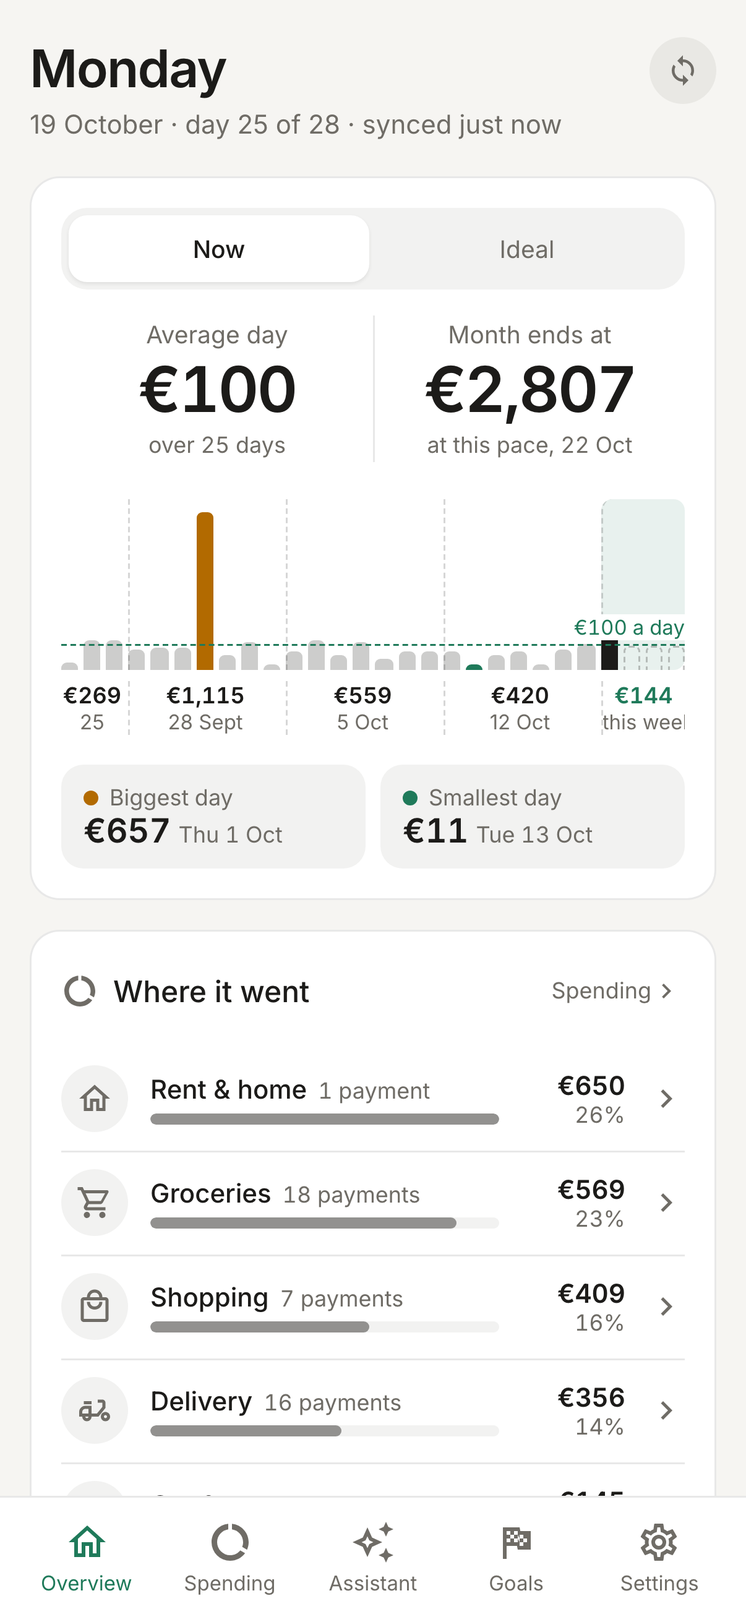
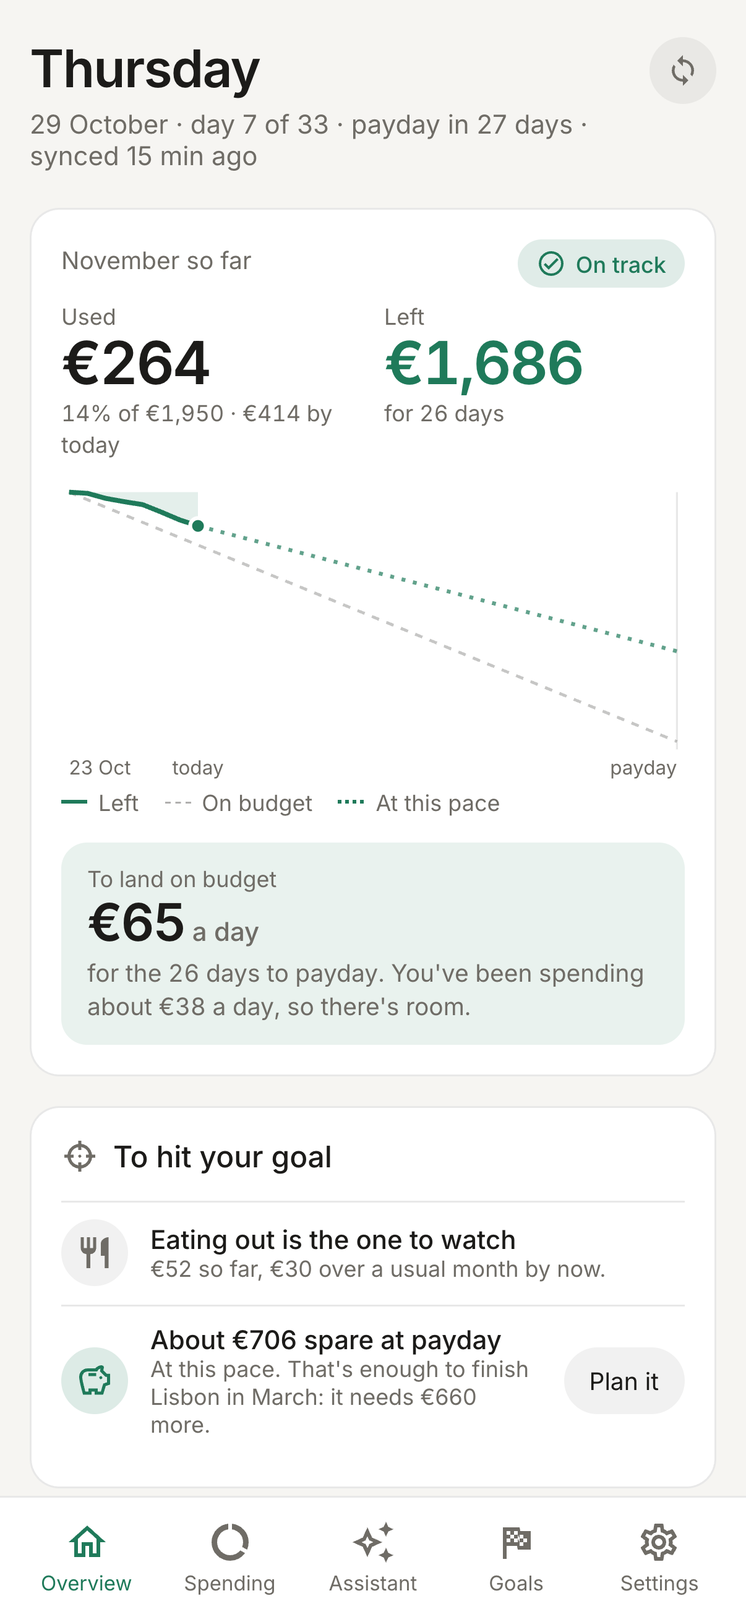
The docs describe the new Overview, the payment sheet, fixed costs and what the assistant remembers
New screenshots from the demo: Overview on track, behind and over budget; Spending's highlights, Fixed tab and a
payment's sheet. Planning explains the per-day figure and what to do when behind or over, and the month that waits
for pay; Spending, commitments and the assistant pages cover linking payments to fixed costs and the memory.

diff --git a/docs/index.html b/docs/index.html
@@ -261,7 +261,7 @@ a.chip:hover { background: var(--tg-chip-hover); }
   </div>
 
   <div class="shots">
-    <figure class="shot"><img class="light" src="screens/overview-light.png" alt="The Overview screen: this pay month's spending and today's numbers" /><img class="dark" src="screens/overview-dark.png" alt="" /><figcaption>Overview</figcaption></figure>
+    <figure class="shot"><img class="light" src="screens/overview-light.png" alt="The Overview screen: this month's money used and left, a runway to payday, and what a day can be" /><img class="dark" src="screens/overview-dark.png" alt="" /><figcaption>Overview</figcaption></figure>
     <figure class="shot"><img class="light" src="screens/spending-light.png" alt="The Spending screen: spending by category against usual" /><img class="dark" src="screens/spending-dark.png" alt="" /><figcaption>Spending</figcaption></figure>
     <figure class="shot"><img class="light" src="screens/goals-light.png" alt="The Goals screen: goals, weekly habits and the wishlist" /><img class="dark" src="screens/goals-dark.png" alt="" /><figcaption>Goals</figcaption></figure>
   </div>
@@ -279,7 +279,7 @@ a.chip:hover { background: var(--tg-chip-hover); }
     <div class="card-h"><h2><i data-i="format-list-bulleted"></i>What you can do</h2></div>
     <a class="part" href="#banks"><span class="ricon accent"><i data-i="bank-outline"></i></span><span class="t"><b>Connect every bank</b><span>Piraeus, National Bank, Eurobank, Alpha, Revolut and more, through Enable Banking.</span></span><i data-i="chevron-right"></i></a>
     <a class="part" href="#spending"><span class="ricon accent"><i data-i="chart-donut"></i></span><span class="t"><b>See where it went</b><span>Any day, week, pay month or year, against what's usual for you.</span></span><i data-i="chevron-right"></i></a>
-    <a class="part" href="#planning"><span class="ricon accent"><i data-i="calendar-month-outline"></i></span><span class="t"><b>Plan around payday</b><span>Budgets per category and a pace that tells you early.</span></span><i data-i="chevron-right"></i></a>
+    <a class="part" href="#planning"><span class="ricon accent"><i data-i="calendar-month-outline"></i></span><span class="t"><b>Plan around payday</b><span>What's left, what a day can be until payday, and what to do if it goes wrong.</span></span><i data-i="chevron-right"></i></a>
     <a class="part" href="#goals"><span class="ricon accent"><i data-i="target"></i></span><span class="t"><b>Save on purpose</b><span>Goals, fixed costs, weekly habits and a 48-hour wishlist.</span></span><i data-i="chevron-right"></i></a>
     <a class="part" href="#alerts"><span class="ricon accent"><i data-i="bell-outline"></i></span><span class="t"><b>Hear about it in time</b><span>A nudge on your phone when a category runs ahead.</span></span><i data-i="chevron-right"></i></a>
     <a class="part" href="#assistant"><span class="ricon ai"><i data-i="creation-outline"></i></span><span class="t"><b>Ask about your money</b><span>An optional Claude assistant that reads your spending.</span></span><i data-i="chevron-right"></i></a>
@@ -392,6 +392,9 @@ cp .env.example .env && echo DEMO=1 >> .env</code></span></li>
       past and future. ebby re-sorts your history right away, so last month's totals change too.</p>
     <p>The <b>Sorter</b>, in the Assistant tab, collects payees left in Other over the last 90 days, biggest first. You
       can clear them in a few taps. With the assistant switched on, each one comes with a guess and the reason for it.</p>
+    <p>Some payments only you can explain, like a transfer that's your half of the rent, or a shop where you buy presents.
+      Tell the assistant once, from the payment's sheet, and it uses that the next time it guesses. See
+      <a href="#assistant">what it remembers</a>.</p>
   </div>
 </section>
 
@@ -406,6 +409,22 @@ cp .env.example .env && echo DEMO=1 >> .env</code></span></li>
       same number of days of earlier periods, so the middle of the month never looks falsely calm.</p>
     <p>Up to three highlights point out what stands out. That might be a category that jumped, one big payment, an
       expensive weekday, or a run of days with no spending.</p>
+  </div>
+
+  <div class="shots">
+    <figure class="shot"><img class="light" src="screens/spending-light.png" alt="Spending for a pay month, with highlights you can open" /><img class="dark" src="screens/spending-dark.png" alt="" /><figcaption>Highlights</figcaption></figure>
+    <figure class="shot"><img class="light" src="screens/spending-fixed-light.png" alt="The Fixed tab: fixed costs paid or still due, then subscriptions" /><img class="dark" src="screens/spending-fixed-dark.png" alt="" /><figcaption>Fixed</figcaption></figure>
+    <figure class="shot"><img class="light" src="screens/payment-light.png" alt="A payment's sheet: the day paid, the account, its category and fixed cost" /><img class="dark" src="screens/payment-dark.png" alt="" /><figcaption>A payment</figcaption></figure>
+  </div>
+
+  <div class="card prose">
+    <div class="card-h"><h2><i data-i="gesture-tap"></i>Every payment, one tap away</h2></div>
+    <p>Whatever you start from, you can go all the way down: period, category, payee, payment. Highlights open what they
+      talk about, and every payment row opens the same sheet. The sheet shows the day you paid, the day the bank booked
+      it when that's different, and the account. It's also where you change the payment's category, link it to a fixed
+      cost, or tell the assistant something about it.</p>
+    <p>The <b>Fixed</b> tab lists your fixed costs for the period, paid or still due, then the subscriptions that aren't one
+      yet. Payments to fixed costs carry a <em>Fixed</em> tag in every list and are left out of the day's spending.</p>
   </div>
 
   <div class="card prose">
@@ -432,6 +451,9 @@ cp .env.example .env && echo DEMO=1 >> .env</code></span></li>
     <p>Set your payday to the 1st for calendar months, to any day from the 2nd to the 28th, or to the last working day.
       If payday falls on a weekend, the month starts on the Friday before, because that's when the money usually lands.
       After your first sync, ebby suggests a payday from your deposits.</p>
+    <p>Pay doesn't always land on time. Under Settings → Payday you can start a new month <b>when your pay arrives</b>
+      instead. While it's late, the month before stays open, so what's left doesn't reset to nothing. It waits a few days
+      at most (you choose how many), and pay that comes early starts the month early.</p>
   </div>
 
   <div class="card prose">
@@ -442,11 +464,29 @@ cp .env.example .env && echo DEMO=1 >> .env</code></span></li>
       months it arrives.</p>
   </div>
 
+  <div class="shots">
+    <figure class="shot"><img class="light" src="screens/overview-light.png" alt="Overview on track: money left, and a day's spending to land on budget" /><img class="dark" src="screens/overview-dark.png" alt="" /><figcaption>On track</figcaption></figure>
+    <figure class="shot"><img class="light" src="screens/overview-behind-light.png" alt="Overview behind: a smaller day's spending, and what to cut" /><img class="dark" src="screens/overview-behind-dark.png" alt="" /><figcaption>Behind</figcaption></figure>
+    <figure class="shot"><img class="light" src="screens/overview-over-light.png" alt="Overview over budget: ways to cover it, from next month or a goal" /><img class="dark" src="screens/overview-over-dark.png" alt="" /><figcaption>Over budget</figcaption></figure>
+  </div>
+
   <div class="card prose">
     <div class="card-h"><h2><i data-i="trending-up"></i>Staying on pace</h2></div>
-    <p>The <b>Today</b> card shows what you've spent today, your daily average, and where the month is heading. Each
-      category gets a pace: <em>fine</em>, <em>ahead</em> or <em>over</em>, with a plain-words line about the habit behind
-      it. The year view puts every month side by side.</p>
+    <p><b>Overview</b> starts with this month so far: how much of the budget is used, what's left, and a runway from payday
+      to payday. The runway draws the money left each day against where it should be, and carries on at your pace so far,
+      so you see early where the month will end. Fixed costs aren't part of it: they're set aside first, and listed below
+      as paid or still to come.</p>
+    <p>Under the runway is the number to live by: what you can spend a day until payday and still land on budget. What
+      comes next depends on how the month is going:</p>
+    <ul>
+      <li><b>On track:</b> the category to keep an eye on, and what's likely to be spare on payday for your goal.</li>
+      <li><b>Behind:</b> the categories running furthest over their usual, with what one payment fewer saves, or taking the
+        difference from a goal.</li>
+      <li><b>Over budget:</b> choose how to cover it, by starting next month with that much less or by taking it from a
+        goal. Then it's essentials only until payday.</li>
+    </ul>
+    <p>Each category also gets a pace in Spending: <em>fine</em>, <em>ahead</em> or <em>over</em>, with a plain-words line
+      about the habit behind it. The year view puts every month side by side.</p>
   </div>
 </section>
 
@@ -465,6 +505,9 @@ cp .env.example .env && echo DEMO=1 >> .env</code></span></li>
     <p>Commitments are costs you've promised in advance, kept apart from everyday spending. A commitment can be a monthly
       limit on certain payees, or a cost that comes every 3, 6 or 12 months. For those, ebby sets aside a monthly share,
       so the insurance bill doesn't wreck the month it arrives in.</p>
+    <p>Payments to a fixed cost are found by its payees. For one that can't be told by its payee, like a transfer to your
+      landlord or a card payment with no shop name, open the payment and pick the fixed cost it belongs to; it stays linked.
+      Overview and the Fixed tab show each cost as paid, with the day, or still to come.</p>
   </div>
 
   <div class="card prose">
@@ -515,6 +558,15 @@ cp .env.example .env && echo DEMO=1 >> .env</code></span></li>
     <div class="part"><span class="ricon ai"><i data-i="shape-outline"></i></span><span class="t"><b>Sorter guesses</b><span>One guess per unknown payee, with the reason behind it.</span></span></div>
     <div class="part"><span class="ricon ai"><i data-i="chart-donut"></i></span><span class="t"><b>Explain</b><span>On the Spending tab, any day, week, month or year in a few sentences.</span></span></div>
     <div class="part"><span class="ricon ai"><i data-i="bell-outline"></i></span><span class="t"><b>The weekly read</b><span>Arrives on Monday morning. You can switch it off in Settings.</span></span></div>
+  </div>
+
+  <div class="card prose">
+    <div class="card-h"><h2><i data-i="history"></i>What it remembers</h2></div>
+    <p>Tell the assistant something once and it keeps it, a line at a time, in your words: "transfers to Maria are my half
+      of the rent". You can add a line from a payment's sheet or in Settings → What it remembers. In chat it offers to
+      remember things itself, but saves nothing until you tap <b>Do it</b>.</p>
+    <p>It reads these lines when it guesses a category and when you chat. A guess that relied on one says so. You can
+      change or forget any line in Settings.</p>
   </div>
 
   <div class="card prose">
@@ -777,7 +829,7 @@ cp .env.example .env && echo DEMO=1 >> .env</code></span></li>
 <script src="https://cdn.jsdelivr.net/npm/mermaid@10.9.1/dist/mermaid.min.js"></script>
 <script>
 // The app's icons (@mdi/js paths), drawn the way web/src/components/ui.tsx's <Icon> draws them.
-const ICONS = {"account-group-outline": "M12,5A3.5,3.5 0 0,0 8.5,8.5A3.5,3.5 0 0,0 12,12A3.5,3.5 0 0,0 15.5,8.5A3.5,3.5 0 0,0 12,5M12,7A1.5,1.5 0 0,1 13.5,8.5A1.5,1.5 0 0,1 12,10A1.5,1.5 0 0,1 10.5,8.5A1.5,1.5 0 0,1 12,7M5.5,8A2.5,2.5 0 0,0 3,10.5C3,11.44 3.53,12.25 4.29,12.68C4.65,12.88 5.06,13 5.5,13C5.94,13 6.35,12.88 6.71,12.68C7.08,12.47 7.39,12.17 7.62,11.81C6.89,10.86 6.5,9.7 6.5,8.5C6.5,8.41 6.5,8.31 6.5,8.22C6.2,8.08 5.86,8 5.5,8M18.5,8C18.14,8 17.8,8.08 17.5,8.22C17.5,8.31 17.5,8.41 17.5,8.5C17.5,9.7 17.11,10.86 16.38,11.81C16.5,12 16.63,12.15 16.78,12.3C16.94,12.45 17.1,12.58 17.29,12.68C17.65,12.88 18.06,13 18.5,13C18.94,13 19.35,12.88 19.71,12.68C20.47,12.25 21,11.44 21,10.5A2.5,2.5 0 0,0 18.5,8M12,14C9.66,14 5,15.17 5,17.5V19H19V17.5C19,15.17 14.34,14 12,14M4.71,14.55C2.78,14.78 0,15.76 0,17.5V19H3V17.07C3,16.06 3.69,15.22 4.71,14.55M19.29,14.55C20.31,15.22 21,16.06 21,17.07V19H24V17.5C24,15.76 21.22,14.78 19.29,14.55M12,16C13.53,16 15.24,16.5 16.23,17H7.77C8.76,16.5 10.47,16 12,16Z", "account-outline": "M12,4A4,4 0 0,1 16,8A4,4 0 0,1 12,12A4,4 0 0,1 8,8A4,4 0 0,1 12,4M12,6A2,2 0 0,0 10,8A2,2 0 0,0 12,10A2,2 0 0,0 14,8A2,2 0 0,0 12,6M12,13C14.67,13 20,14.33 20,17V20H4V17C4,14.33 9.33,13 12,13M12,14.9C9.03,14.9 5.9,16.36 5.9,17V18.1H18.1V17C18.1,16.36 14.97,14.9 12,14.9Z", "arrow-decision": "M11,5H8L12,1L16,5H13V9.43C12.25,9.89 11.58,10.46 11,11.12V5M22,11L18,7V10C14.39,9.85 11.31,12.57 11,16.17C9.44,16.72 8.62,18.44 9.17,20C9.72,21.56 11.44,22.38 13,21.83C14.56,21.27 15.38,19.56 14.83,18C14.53,17.14 13.85,16.47 13,16.17C13.47,12.17 17.47,11.97 17.95,11.97V14.97L22,11M10.63,11.59C9.3,10.57 7.67,10 6,10V7L2,11L6,15V12C7.34,12.03 8.63,12.5 9.64,13.4C9.89,12.76 10.22,12.15 10.63,11.59Z", "arrow-right": "M4,11V13H16L10.5,18.5L11.92,19.92L19.84,12L11.92,4.08L10.5,5.5L16,11H4Z", "bank-outline": "M6.5,10H4.5V17H6.5V10M12.5,10H10.5V17H12.5V10M21,19H2V21H21V19M18.5,10H16.5V17H18.5V10M11.5,3.26L16.71,6H6.29L11.5,3.26M11.5,1L2,6V8H21V6L11.5,1Z", "bell-outline": "M10 21H14C14 22.1 13.1 23 12 23S10 22.1 10 21M21 19V20H3V19L5 17V11C5 7.9 7 5.2 10 4.3V4C10 2.9 10.9 2 12 2S14 2.9 14 4V4.3C17 5.2 19 7.9 19 11V17L21 19M17 11C17 8.2 14.8 6 12 6S7 8.2 7 11V18H17V11Z", "brightness-auto": "M14.3,16L13.6,14H10.4L9.7,16H7.8L11,7H13L16.2,16H14.3M20,8.69V4H15.31L12,0.69L8.69,4H4V8.69L0.69,12L4,15.31V20H8.69L12,23.31L15.31,20H20V15.31L23.31,12L20,8.69M10.85,12.65H13.15L12,9L10.85,12.65Z", "calculator-variant-outline": "M19 3H5C3.9 3 3 3.9 3 5V19C3 20.1 3.9 21 5 21H19C20.1 21 21 20.1 21 19V5C21 3.9 20.1 3 19 3M19 19H5V5H19V19M6.2 7.7H11.2V9.2H6.2V7.7M13 15.8H18V17.3H13V15.8M13 13.2H18V14.7H13V13.2M8 18H9.5V16H11.5V14.5H9.5V12.5H8V14.5H6V16H8V18M14.1 10.9L15.5 9.5L16.9 10.9L18 9.9L16.6 8.5L18 7.1L16.9 6L15.5 7.4L14.1 6L13 7.1L14.4 8.5L13 9.9L14.1 10.9Z", "calendar-month-outline": "M7 11H9V13H7V11M21 5V19C21 20.11 20.11 21 19 21H5C3.89 21 3 20.1 3 19V5C3 3.9 3.9 3 5 3H6V1H8V3H16V1H18V3H19C20.11 3 21 3.9 21 5M5 7H19V5H5V7M19 19V9H5V19H19M15 13V11H17V13H15M11 13V11H13V13H11M7 15H9V17H7V15M15 17V15H17V17H15M11 17V15H13V17H11Z", "cash": "M3,6H21V18H3V6M12,9A3,3 0 0,1 15,12A3,3 0 0,1 12,15A3,3 0 0,1 9,12A3,3 0 0,1 12,9M7,8A2,2 0 0,1 5,10V14A2,2 0 0,1 7,16H17A2,2 0 0,1 19,14V10A2,2 0 0,1 17,8H7Z", "cellphone": "M17,19H7V5H17M17,1H7C5.89,1 5,1.89 5,3V21A2,2 0 0,0 7,23H17A2,2 0 0,0 19,21V3C19,1.89 18.1,1 17,1Z", "chart-donut": "M13,2.05V5.08C16.39,5.57 19,8.47 19,12C19,12.9 18.82,13.75 18.5,14.54L21.12,16.07C21.68,14.83 22,13.45 22,12C22,6.82 18.05,2.55 13,2.05M12,19A7,7 0 0,1 5,12C5,8.47 7.61,5.57 11,5.08V2.05C5.94,2.55 2,6.81 2,12A10,10 0 0,0 12,22C15.3,22 18.23,20.39 20.05,17.91L17.45,16.38C16.17,18 14.21,19 12,19Z", "check-circle-outline": "M12 2C6.5 2 2 6.5 2 12S6.5 22 12 22 22 17.5 22 12 17.5 2 12 2M12 20C7.59 20 4 16.41 4 12S7.59 4 12 4 20 7.59 20 12 16.41 20 12 20M16.59 7.58L10 14.17L7.41 11.59L6 13L10 17L18 9L16.59 7.58Z", "chevron-down": "M7.41,8.58L12,13.17L16.59,8.58L18,10L12,16L6,10L7.41,8.58Z", "chevron-left": "M15.41,16.58L10.83,12L15.41,7.41L14,6L8,12L14,18L15.41,16.58Z", "chevron-right": "M8.59,16.58L13.17,12L8.59,7.41L10,6L16,12L10,18L8.59,16.58Z", "clock-outline": "M12,20A8,8 0 0,0 20,12A8,8 0 0,0 12,4A8,8 0 0,0 4,12A8,8 0 0,0 12,20M12,2A10,10 0 0,1 22,12A10,10 0 0,1 12,22C6.47,22 2,17.5 2,12A10,10 0 0,1 12,2M12.5,7V12.25L17,14.92L16.25,16.15L11,13V7H12.5Z", "cog-outline": "M12,8A4,4 0 0,1 16,12A4,4 0 0,1 12,16A4,4 0 0,1 8,12A4,4 0 0,1 12,8M12,10A2,2 0 0,0 10,12A2,2 0 0,0 12,14A2,2 0 0,0 14,12A2,2 0 0,0 12,10M10,22C9.75,22 9.54,21.82 9.5,21.58L9.13,18.93C8.5,18.68 7.96,18.34 7.44,17.94L4.95,18.95C4.73,19.03 4.46,18.95 4.34,18.73L2.34,15.27C2.21,15.05 2.27,14.78 2.46,14.63L4.57,12.97L4.5,12L4.57,11L2.46,9.37C2.27,9.22 2.21,8.95 2.34,8.73L4.34,5.27C4.46,5.05 4.73,4.96 4.95,5.05L7.44,6.05C7.96,5.66 8.5,5.32 9.13,5.07L9.5,2.42C9.54,2.18 9.75,2 10,2H14C14.25,2 14.46,2.18 14.5,2.42L14.87,5.07C15.5,5.32 16.04,5.66 16.56,6.05L19.05,5.05C19.27,4.96 19.54,5.05 19.66,5.27L21.66,8.73C21.79,8.95 21.73,9.22 21.54,9.37L19.43,11L19.5,12L19.43,13L21.54,14.63C21.73,14.78 21.79,15.05 21.66,15.27L19.66,18.73C19.54,18.95 19.27,19.04 19.05,18.95L16.56,17.95C16.04,18.34 15.5,18.68 14.87,18.93L14.5,21.58C14.46,21.82 14.25,22 14,22H10M11.25,4L10.88,6.61C9.68,6.86 8.62,7.5 7.85,8.39L5.44,7.35L4.69,8.65L6.8,10.2C6.4,11.37 6.4,12.64 6.8,13.8L4.68,15.36L5.43,16.66L7.86,15.62C8.63,16.5 9.68,17.14 10.87,17.38L11.24,20H12.76L13.13,17.39C14.32,17.14 15.37,16.5 16.14,15.62L18.57,16.66L19.32,15.36L17.2,13.81C17.6,12.64 17.6,11.37 17.2,10.2L19.31,8.65L18.56,7.35L16.15,8.39C15.38,7.5 14.32,6.86 13.12,6.62L12.75,4H11.25Z", "compass-outline": "M7,17L10.2,10.2L17,7L13.8,13.8L7,17M12,11.1A0.9,0.9 0 0,0 11.1,12A0.9,0.9 0 0,0 12,12.9A0.9,0.9 0 0,0 12.9,12A0.9,0.9 0 0,0 12,11.1M12,2A10,10 0 0,1 22,12A10,10 0 0,1 12,22A10,10 0 0,1 2,12A10,10 0 0,1 12,2M12,4A8,8 0 0,0 4,12A8,8 0 0,0 12,20A8,8 0 0,0 20,12A8,8 0 0,0 12,4Z", "creation-outline": "M9 4L11.5 9.5L17 12L11.5 14.5L9 20L6.5 14.5L1 12L6.5 9.5L9 4M9 8.83L8 11L5.83 12L8 13L9 15.17L10 13L12.17 12L10 11L9 8.83M19 9L17.74 6.26L15 5L17.74 3.75L19 1L20.25 3.75L23 5L20.25 6.26L19 9M19 23L17.74 20.26L15 19L17.74 17.75L19 15L20.25 17.75L23 19L20.25 20.26L19 23Z", "database-outline": "M12 3C7.58 3 4 4.79 4 7V17C4 19.21 7.59 21 12 21S20 19.21 20 17V7C20 4.79 16.42 3 12 3M18 17C18 17.5 15.87 19 12 19S6 17.5 6 17V14.77C7.61 15.55 9.72 16 12 16S16.39 15.55 18 14.77V17M18 12.45C16.7 13.4 14.42 14 12 14C9.58 14 7.3 13.4 6 12.45V9.64C7.47 10.47 9.61 11 12 11C14.39 11 16.53 10.47 18 9.64V12.45M12 9C8.13 9 6 7.5 6 7S8.13 5 12 5C15.87 5 18 6.5 18 7S15.87 9 12 9Z", "docker": "M21.81 10.25C21.75 10.21 21.25 9.82 20.17 9.82C19.89 9.82 19.61 9.85 19.33 9.9C19.12 8.5 17.95 7.79 17.9 7.76L17.61 7.59L17.43 7.86C17.19 8.22 17 8.63 16.92 9.05C16.72 9.85 16.84 10.61 17.25 11.26C16.76 11.54 15.96 11.61 15.79 11.61H2.62C2.28 11.61 2 11.89 2 12.24C2 13.39 2.18 14.54 2.58 15.62C3.03 16.81 3.71 17.69 4.58 18.23C5.56 18.83 7.17 19.17 9 19.17C9.79 19.17 10.61 19.1 11.42 18.95C12.54 18.75 13.62 18.36 14.61 17.79C15.43 17.32 16.16 16.72 16.78 16C17.83 14.83 18.45 13.5 18.9 12.35H19.09C20.23 12.35 20.94 11.89 21.33 11.5C21.59 11.26 21.78 10.97 21.92 10.63L22 10.39L21.81 10.25M3.85 11.24H5.61C5.69 11.24 5.77 11.17 5.77 11.08V9.5C5.77 9.42 5.7 9.34 5.61 9.34H3.85C3.76 9.34 3.69 9.41 3.69 9.5V11.08C3.7 11.17 3.76 11.24 3.85 11.24M6.28 11.24H8.04C8.12 11.24 8.2 11.17 8.2 11.08V9.5C8.2 9.42 8.13 9.34 8.04 9.34H6.28C6.19 9.34 6.12 9.41 6.12 9.5V11.08C6.13 11.17 6.19 11.24 6.28 11.24M8.75 11.24H10.5C10.6 11.24 10.67 11.17 10.67 11.08V9.5C10.67 9.42 10.61 9.34 10.5 9.34H8.75C8.67 9.34 8.6 9.41 8.6 9.5V11.08C8.6 11.17 8.66 11.24 8.75 11.24M11.19 11.24H12.96C13.04 11.24 13.11 11.17 13.11 11.08V9.5C13.11 9.42 13.05 9.34 12.96 9.34H11.19C11.11 9.34 11.04 9.41 11.04 9.5V11.08C11.04 11.17 11.11 11.24 11.19 11.24M6.28 9H8.04C8.12 9 8.2 8.91 8.2 8.82V7.25C8.2 7.16 8.13 7.09 8.04 7.09H6.28C6.19 7.09 6.12 7.15 6.12 7.25V8.82C6.13 8.91 6.19 9 6.28 9M8.75 9H10.5C10.6 9 10.67 8.91 10.67 8.82V7.25C10.67 7.16 10.61 7.09 10.5 7.09H8.75C8.67 7.09 8.6 7.15 8.6 7.25V8.82C8.6 8.91 8.66 9 8.75 9M11.19 9H12.96C13.04 9 13.11 8.91 13.11 8.82V7.25C13.11 7.16 13.04 7.09 12.96 7.09H11.19C11.11 7.09 11.04 7.15 11.04 7.25V8.82C11.04 8.91 11.11 9 11.19 9M11.19 6.72H12.96C13.04 6.72 13.11 6.65 13.11 6.56V5C13.11 4.9 13.04 4.83 12.96 4.83H11.19C11.11 4.83 11.04 4.89 11.04 5V6.56C11.04 6.64 11.11 6.72 11.19 6.72M13.65 11.24H15.41C15.5 11.24 15.57 11.17 15.57 11.08V9.5C15.57 9.42 15.5 9.34 15.41 9.34H13.65C13.57 9.34 13.5 9.41 13.5 9.5V11.08C13.5 11.17 13.57 11.24 13.65 11.24", "dots-horizontal": "M16,12A2,2 0 0,1 18,10A2,2 0 0,1 20,12A2,2 0 0,1 18,14A2,2 0 0,1 16,12M10,12A2,2 0 0,1 12,10A2,2 0 0,1 14,12A2,2 0 0,1 12,14A2,2 0 0,1 10,12M4,12A2,2 0 0,1 6,10A2,2 0 0,1 8,12A2,2 0 0,1 6,14A2,2 0 0,1 4,12Z", "folder-outline": "M20,18H4V8H20M20,6H12L10,4H4C2.89,4 2,4.89 2,6V18A2,2 0 0,0 4,20H20A2,2 0 0,0 22,18V8C22,6.89 21.1,6 20,6Z", "format-list-bulleted": "M7,5H21V7H7V5M7,13V11H21V13H7M4,4.5A1.5,1.5 0 0,1 5.5,6A1.5,1.5 0 0,1 4,7.5A1.5,1.5 0 0,1 2.5,6A1.5,1.5 0 0,1 4,4.5M4,10.5A1.5,1.5 0 0,1 5.5,12A1.5,1.5 0 0,1 4,13.5A1.5,1.5 0 0,1 2.5,12A1.5,1.5 0 0,1 4,10.5M7,19V17H21V19H7M4,16.5A1.5,1.5 0 0,1 5.5,18A1.5,1.5 0 0,1 4,19.5A1.5,1.5 0 0,1 2.5,18A1.5,1.5 0 0,1 4,16.5Z", "home-outline": "M12 5.69L17 10.19V18H15V12H9V18H7V10.19L12 5.69M12 3L2 12H5V20H11V14H13V20H19V12H22", "information-outline": "M11,9H13V7H11M12,20C7.59,20 4,16.41 4,12C4,7.59 7.59,4 12,4C16.41,4 20,7.59 20,12C20,16.41 16.41,20 12,20M12,2A10,10 0 0,0 2,12A10,10 0 0,0 12,22A10,10 0 0,0 22,12A10,10 0 0,0 12,2M11,17H13V11H11V17Z", "key-outline": "M21 18H15V15H13.3C12.2 17.4 9.7 19 7 19C3.1 19 0 15.9 0 12S3.1 5 7 5C9.7 5 12.2 6.6 13.3 9H24V15H21V18M17 16H19V13H22V11H11.9L11.7 10.3C11 8.3 9.1 7 7 7C4.2 7 2 9.2 2 12S4.2 17 7 17C9.1 17 11 15.7 11.7 13.7L11.9 13H17V16M7 15C5.3 15 4 13.7 4 12S5.3 9 7 9 10 10.3 10 12 8.7 15 7 15M7 11C6.4 11 6 11.4 6 12S6.4 13 7 13 8 12.6 8 12 7.6 11 7 11Z", "layers-outline": "M12,18.54L19.37,12.8L21,14.07L12,21.07L3,14.07L4.62,12.81L12,18.54M12,16L3,9L12,2L21,9L12,16M12,4.53L6.26,9L12,13.47L17.74,9L12,4.53Z", "lock-outline": "M12,17C10.89,17 10,16.1 10,15C10,13.89 10.89,13 12,13A2,2 0 0,1 14,15A2,2 0 0,1 12,17M18,20V10H6V20H18M18,8A2,2 0 0,1 20,10V20A2,2 0 0,1 18,22H6C4.89,22 4,21.1 4,20V10C4,8.89 4.89,8 6,8H7V6A5,5 0 0,1 12,1A5,5 0 0,1 17,6V8H18M12,3A3,3 0 0,0 9,6V8H15V6A3,3 0 0,0 12,3Z", "piggy-bank-outline": "M15 10C15 9.45 15.45 9 16 9C16.55 9 17 9.45 17 10S16.55 11 16 11 15 10.55 15 10M8 9H13V7H8V9M22 7.5V14.47L19.18 15.41L17.5 21H12V19H10V21H4.5C4.5 21 2 12.54 2 9.5S4.46 4 7.5 4H12.5C13.41 2.79 14.86 2 16.5 2C17.33 2 18 2.67 18 3.5C18 3.71 17.96 3.9 17.88 4.08C17.74 4.42 17.62 4.81 17.56 5.23L19.83 7.5H22M20 9.5H19L15.5 6C15.5 5.35 15.59 4.71 15.76 4.09C14.79 4.34 14 5.06 13.67 6H7.5C5.57 6 4 7.57 4 9.5C4 11.38 5.22 16.15 6 19H8V17H14V19H16L17.56 13.85L20 13.03V9.5Z", "puzzle-outline": "M22,13.5C22,15.26 20.7,16.72 19,16.96V20A2,2 0 0,1 17,22H13.2V21.7A2.7,2.7 0 0,0 10.5,19C9,19 7.8,20.21 7.8,21.7V22H4A2,2 0 0,1 2,20V16.2H2.3C3.79,16.2 5,15 5,13.5C5,12 3.79,10.8 2.3,10.8H2V7A2,2 0 0,1 4,5H7.04C7.28,3.3 8.74,2 10.5,2C12.26,2 13.72,3.3 13.96,5H17A2,2 0 0,1 19,7V10.04C20.7,10.28 22,11.74 22,13.5M17,15H18.5A1.5,1.5 0 0,0 20,13.5A1.5,1.5 0 0,0 18.5,12H17V7H12V5.5A1.5,1.5 0 0,0 10.5,4A1.5,1.5 0 0,0 9,5.5V7H4V9.12C5.76,9.8 7,11.5 7,13.5C7,15.5 5.75,17.2 4,17.88V20H6.12C6.8,18.25 8.5,17 10.5,17C12.5,17 14.2,18.25 14.88,20H17V15Z", "repeat": "M17,17H7V14L3,18L7,22V19H19V13H17M7,7H17V10L21,6L17,2V5H5V11H7V7Z", "rocket-launch-outline": "M13.13 22.19L11.5 18.36C13.07 17.78 14.54 17 15.9 16.09L13.13 22.19M5.64 12.5L1.81 10.87L7.91 8.1C7 9.46 6.22 10.93 5.64 12.5M19.22 4C19.5 4 19.75 4 19.96 4.05C20.13 5.44 19.94 8.3 16.66 11.58C14.96 13.29 12.93 14.6 10.65 15.47L8.5 13.37C9.42 11.06 10.73 9.03 12.42 7.34C15.18 4.58 17.64 4 19.22 4M19.22 2C17.24 2 14.24 2.69 11 5.93C8.81 8.12 7.5 10.53 6.65 12.64C6.37 13.39 6.56 14.21 7.11 14.77L9.24 16.89C9.62 17.27 10.13 17.5 10.66 17.5C10.89 17.5 11.13 17.44 11.36 17.35C13.5 16.53 15.88 15.19 18.07 13C23.73 7.34 21.61 2.39 21.61 2.39S20.7 2 19.22 2M14.54 9.46C13.76 8.68 13.76 7.41 14.54 6.63S16.59 5.85 17.37 6.63C18.14 7.41 18.15 8.68 17.37 9.46C16.59 10.24 15.32 10.24 14.54 9.46M8.88 16.53L7.47 15.12L8.88 16.53M6.24 22L9.88 18.36C9.54 18.27 9.21 18.12 8.91 17.91L4.83 22H6.24M2 22H3.41L8.18 17.24L6.76 15.83L2 20.59V22M2 19.17L6.09 15.09C5.88 14.79 5.73 14.47 5.64 14.12L2 17.76V19.17Z", "server-network": "M13,19H14A1,1 0 0,1 15,20H22V22H15A1,1 0 0,1 14,23H10A1,1 0 0,1 9,22H2V20H9A1,1 0 0,1 10,19H11V17H4A1,1 0 0,1 3,16V12A1,1 0 0,1 4,11H20A1,1 0 0,1 21,12V16A1,1 0 0,1 20,17H13V19M4,3H20A1,1 0 0,1 21,4V8A1,1 0 0,1 20,9H4A1,1 0 0,1 3,8V4A1,1 0 0,1 4,3M9,7H10V5H9V7M9,15H10V13H9V15M5,5V7H7V5H5M5,13V15H7V13H5Z", "server-outline": "M2 4.6V9.4C2 10.3 2.5 11 3.2 11H20.9C21.5 11 22.1 10.3 22.1 9.4V4.6C22 3.7 21.5 3 20.8 3H3.2C2.5 3 2 3.7 2 4.6M10 8V6H9V8H10M5 8H7V6H5V8M20 9H4V5H20V9M2 14.6V19.4C2 20.3 2.5 21 3.2 21H20.9C21.5 21 22.1 20.3 22.1 19.4V14.6C22.1 13.7 21.6 13 20.9 13H3.2C2.5 13 2 13.7 2 14.6M10 18V16H9V18H10M5 18H7V16H5V18M20 19H4V15H20V19Z", "shape-outline": "M11,13.5V21.5H3V13.5H11M9,15.5H5V19.5H9V15.5M12,2L17.5,11H6.5L12,2M12,5.86L10.08,9H13.92L12,5.86M17.5,13C20,13 22,15 22,17.5C22,20 20,22 17.5,22C15,22 13,20 13,17.5C13,15 15,13 17.5,13M17.5,15A2.5,2.5 0 0,0 15,17.5A2.5,2.5 0 0,0 17.5,20A2.5,2.5 0 0,0 20,17.5A2.5,2.5 0 0,0 17.5,15Z", "shield-check-outline": "M21,11C21,16.55 17.16,21.74 12,23C6.84,21.74 3,16.55 3,11V5L12,1L21,5V11M12,21C15.75,20 19,15.54 19,11.22V6.3L12,3.18L5,6.3V11.22C5,15.54 8.25,20 12,21M10,17L6,13L7.41,11.59L10,14.17L16.59,7.58L18,9", "source-branch": "M13,14C9.64,14 8.54,15.35 8.18,16.24C9.25,16.7 10,17.76 10,19A3,3 0 0,1 7,22A3,3 0 0,1 4,19C4,17.69 4.83,16.58 6,16.17V7.83C4.83,7.42 4,6.31 4,5A3,3 0 0,1 7,2A3,3 0 0,1 10,5C10,6.31 9.17,7.42 8,7.83V13.12C8.88,12.47 10.16,12 12,12C14.67,12 15.56,10.66 15.85,9.77C14.77,9.32 14,8.25 14,7A3,3 0 0,1 17,4A3,3 0 0,1 20,7C20,8.34 19.12,9.5 17.91,9.86C17.65,11.29 16.68,14 13,14M7,18A1,1 0 0,0 6,19A1,1 0 0,0 7,20A1,1 0 0,0 8,19A1,1 0 0,0 7,18M7,4A1,1 0 0,0 6,5A1,1 0 0,0 7,6A1,1 0 0,0 8,5A1,1 0 0,0 7,4M17,6A1,1 0 0,0 16,7A1,1 0 0,0 17,8A1,1 0 0,0 18,7A1,1 0 0,0 17,6Z", "sync": "M12,18A6,6 0 0,1 6,12C6,11 6.25,10.03 6.7,9.2L5.24,7.74C4.46,8.97 4,10.43 4,12A8,8 0 0,0 12,20V23L16,19L12,15M12,4V1L8,5L12,9V6A6,6 0 0,1 18,12C18,13 17.75,13.97 17.3,14.8L18.76,16.26C19.54,15.03 20,13.57 20,12A8,8 0 0,0 12,4Z", "target": "M11,2V4.07C7.38,4.53 4.53,7.38 4.07,11H2V13H4.07C4.53,16.62 7.38,19.47 11,19.93V22H13V19.93C16.62,19.47 19.47,16.62 19.93,13H22V11H19.93C19.47,7.38 16.62,4.53 13,4.07V2M11,6.08V8H13V6.09C15.5,6.5 17.5,8.5 17.92,11H16V13H17.91C17.5,15.5 15.5,17.5 13,17.92V16H11V17.91C8.5,17.5 6.5,15.5 6.08,13H8V11H6.09C6.5,8.5 8.5,6.5 11,6.08M12,11A1,1 0 0,0 11,12A1,1 0 0,0 12,13A1,1 0 0,0 13,12A1,1 0 0,0 12,11Z", "transit-connection-variant": "M18,11H14.82C14.4,9.84 13.3,9 12,9C10.7,9 9.6,9.84 9.18,11H6C5.67,11 4,10.9 4,9V8C4,6.17 5.54,6 6,6H16.18C16.6,7.16 17.7,8 19,8A3,3 0 0,0 22,5A3,3 0 0,0 19,2C17.7,2 16.6,2.84 16.18,4H6C4.39,4 2,5.06 2,8V9C2,11.94 4.39,13 6,13H9.18C9.6,14.16 10.7,15 12,15C13.3,15 14.4,14.16 14.82,13H18C18.33,13 20,13.1 20,15V16C20,17.83 18.46,18 18,18H7.82C7.4,16.84 6.3,16 5,16A3,3 0 0,0 2,19A3,3 0 0,0 5,22C6.3,22 7.4,21.16 7.82,20H18C19.61,20 22,18.93 22,16V15C22,12.07 19.61,11 18,11M19,4A1,1 0 0,1 20,5A1,1 0 0,1 19,6A1,1 0 0,1 18,5A1,1 0 0,1 19,4M5,20A1,1 0 0,1 4,19A1,1 0 0,1 5,18A1,1 0 0,1 6,19A1,1 0 0,1 5,20Z", "tray-arrow-up": "M2 12H4V17H20V12H22V17C22 18.11 21.11 19 20 19H4C2.9 19 2 18.11 2 17V12M12 2L6.46 7.46L7.88 8.88L11 5.75V15H13V5.75L16.13 8.88L17.55 7.45L12 2Z", "trending-up": "M16,6L18.29,8.29L13.41,13.17L9.41,9.17L2,16.59L3.41,18L9.41,12L13.41,16L19.71,9.71L22,12V6H16Z", "weather-night": "M17.75,4.09L15.22,6.03L16.13,9.09L13.5,7.28L10.87,9.09L11.78,6.03L9.25,4.09L12.44,4L13.5,1L14.56,4L17.75,4.09M21.25,11L19.61,12.25L20.2,14.23L18.5,13.06L16.8,14.23L17.39,12.25L15.75,11L17.81,10.95L18.5,9L19.19,10.95L21.25,11M18.97,15.95C19.8,15.87 20.69,17.05 20.16,17.8C19.84,18.25 19.5,18.67 19.08,19.07C15.17,23 8.84,23 4.94,19.07C1.03,15.17 1.03,8.83 4.94,4.93C5.34,4.53 5.76,4.17 6.21,3.85C6.96,3.32 8.14,4.21 8.06,5.04C7.79,7.9 8.75,10.87 10.95,13.06C13.14,15.26 16.1,16.22 18.97,15.95M17.33,17.97C14.5,17.81 11.7,16.64 9.53,14.5C7.36,12.31 6.2,9.5 6.04,6.68C3.23,9.82 3.34,14.64 6.35,17.66C9.37,20.67 14.19,20.78 17.33,17.97Z", "white-balance-sunny": "M3.55 19.09L4.96 20.5L6.76 18.71L5.34 17.29M12 6C8.69 6 6 8.69 6 12S8.69 18 12 18 18 15.31 18 12C18 8.68 15.31 6 12 6M20 13H23V11H20M17.24 18.71L19.04 20.5L20.45 19.09L18.66 17.29M20.45 5L19.04 3.6L17.24 5.39L18.66 6.81M13 1H11V4H13M6.76 5.39L4.96 3.6L3.55 5L5.34 6.81L6.76 5.39M1 13H4V11H1M13 20H11V23H13"};
+const ICONS = {"account-group-outline": "M12,5A3.5,3.5 0 0,0 8.5,8.5A3.5,3.5 0 0,0 12,12A3.5,3.5 0 0,0 15.5,8.5A3.5,3.5 0 0,0 12,5M12,7A1.5,1.5 0 0,1 13.5,8.5A1.5,1.5 0 0,1 12,10A1.5,1.5 0 0,1 10.5,8.5A1.5,1.5 0 0,1 12,7M5.5,8A2.5,2.5 0 0,0 3,10.5C3,11.44 3.53,12.25 4.29,12.68C4.65,12.88 5.06,13 5.5,13C5.94,13 6.35,12.88 6.71,12.68C7.08,12.47 7.39,12.17 7.62,11.81C6.89,10.86 6.5,9.7 6.5,8.5C6.5,8.41 6.5,8.31 6.5,8.22C6.2,8.08 5.86,8 5.5,8M18.5,8C18.14,8 17.8,8.08 17.5,8.22C17.5,8.31 17.5,8.41 17.5,8.5C17.5,9.7 17.11,10.86 16.38,11.81C16.5,12 16.63,12.15 16.78,12.3C16.94,12.45 17.1,12.58 17.29,12.68C17.65,12.88 18.06,13 18.5,13C18.94,13 19.35,12.88 19.71,12.68C20.47,12.25 21,11.44 21,10.5A2.5,2.5 0 0,0 18.5,8M12,14C9.66,14 5,15.17 5,17.5V19H19V17.5C19,15.17 14.34,14 12,14M4.71,14.55C2.78,14.78 0,15.76 0,17.5V19H3V17.07C3,16.06 3.69,15.22 4.71,14.55M19.29,14.55C20.31,15.22 21,16.06 21,17.07V19H24V17.5C24,15.76 21.22,14.78 19.29,14.55M12,16C13.53,16 15.24,16.5 16.23,17H7.77C8.76,16.5 10.47,16 12,16Z", "account-outline": "M12,4A4,4 0 0,1 16,8A4,4 0 0,1 12,12A4,4 0 0,1 8,8A4,4 0 0,1 12,4M12,6A2,2 0 0,0 10,8A2,2 0 0,0 12,10A2,2 0 0,0 14,8A2,2 0 0,0 12,6M12,13C14.67,13 20,14.33 20,17V20H4V17C4,14.33 9.33,13 12,13M12,14.9C9.03,14.9 5.9,16.36 5.9,17V18.1H18.1V17C18.1,16.36 14.97,14.9 12,14.9Z", "arrow-decision": "M11,5H8L12,1L16,5H13V9.43C12.25,9.89 11.58,10.46 11,11.12V5M22,11L18,7V10C14.39,9.85 11.31,12.57 11,16.17C9.44,16.72 8.62,18.44 9.17,20C9.72,21.56 11.44,22.38 13,21.83C14.56,21.27 15.38,19.56 14.83,18C14.53,17.14 13.85,16.47 13,16.17C13.47,12.17 17.47,11.97 17.95,11.97V14.97L22,11M10.63,11.59C9.3,10.57 7.67,10 6,10V7L2,11L6,15V12C7.34,12.03 8.63,12.5 9.64,13.4C9.89,12.76 10.22,12.15 10.63,11.59Z", "arrow-right": "M4,11V13H16L10.5,18.5L11.92,19.92L19.84,12L11.92,4.08L10.5,5.5L16,11H4Z", "bank-outline": "M6.5,10H4.5V17H6.5V10M12.5,10H10.5V17H12.5V10M21,19H2V21H21V19M18.5,10H16.5V17H18.5V10M11.5,3.26L16.71,6H6.29L11.5,3.26M11.5,1L2,6V8H21V6L11.5,1Z", "bell-outline": "M10 21H14C14 22.1 13.1 23 12 23S10 22.1 10 21M21 19V20H3V19L5 17V11C5 7.9 7 5.2 10 4.3V4C10 2.9 10.9 2 12 2S14 2.9 14 4V4.3C17 5.2 19 7.9 19 11V17L21 19M17 11C17 8.2 14.8 6 12 6S7 8.2 7 11V18H17V11Z", "brightness-auto": "M14.3,16L13.6,14H10.4L9.7,16H7.8L11,7H13L16.2,16H14.3M20,8.69V4H15.31L12,0.69L8.69,4H4V8.69L0.69,12L4,15.31V20H8.69L12,23.31L15.31,20H20V15.31L23.31,12L20,8.69M10.85,12.65H13.15L12,9L10.85,12.65Z", "calculator-variant-outline": "M19 3H5C3.9 3 3 3.9 3 5V19C3 20.1 3.9 21 5 21H19C20.1 21 21 20.1 21 19V5C21 3.9 20.1 3 19 3M19 19H5V5H19V19M6.2 7.7H11.2V9.2H6.2V7.7M13 15.8H18V17.3H13V15.8M13 13.2H18V14.7H13V13.2M8 18H9.5V16H11.5V14.5H9.5V12.5H8V14.5H6V16H8V18M14.1 10.9L15.5 9.5L16.9 10.9L18 9.9L16.6 8.5L18 7.1L16.9 6L15.5 7.4L14.1 6L13 7.1L14.4 8.5L13 9.9L14.1 10.9Z", "calendar-month-outline": "M7 11H9V13H7V11M21 5V19C21 20.11 20.11 21 19 21H5C3.89 21 3 20.1 3 19V5C3 3.9 3.9 3 5 3H6V1H8V3H16V1H18V3H19C20.11 3 21 3.9 21 5M5 7H19V5H5V7M19 19V9H5V19H19M15 13V11H17V13H15M11 13V11H13V13H11M7 15H9V17H7V15M15 17V15H17V17H15M11 17V15H13V17H11Z", "cash": "M3,6H21V18H3V6M12,9A3,3 0 0,1 15,12A3,3 0 0,1 12,15A3,3 0 0,1 9,12A3,3 0 0,1 12,9M7,8A2,2 0 0,1 5,10V14A2,2 0 0,1 7,16H17A2,2 0 0,1 19,14V10A2,2 0 0,1 17,8H7Z", "cellphone": "M17,19H7V5H17M17,1H7C5.89,1 5,1.89 5,3V21A2,2 0 0,0 7,23H17A2,2 0 0,0 19,21V3C19,1.89 18.1,1 17,1Z", "chart-donut": "M13,2.05V5.08C16.39,5.57 19,8.47 19,12C19,12.9 18.82,13.75 18.5,14.54L21.12,16.07C21.68,14.83 22,13.45 22,12C22,6.82 18.05,2.55 13,2.05M12,19A7,7 0 0,1 5,12C5,8.47 7.61,5.57 11,5.08V2.05C5.94,2.55 2,6.81 2,12A10,10 0 0,0 12,22C15.3,22 18.23,20.39 20.05,17.91L17.45,16.38C16.17,18 14.21,19 12,19Z", "check-circle-outline": "M12 2C6.5 2 2 6.5 2 12S6.5 22 12 22 22 17.5 22 12 17.5 2 12 2M12 20C7.59 20 4 16.41 4 12S7.59 4 12 4 20 7.59 20 12 16.41 20 12 20M16.59 7.58L10 14.17L7.41 11.59L6 13L10 17L18 9L16.59 7.58Z", "chevron-down": "M7.41,8.58L12,13.17L16.59,8.58L18,10L12,16L6,10L7.41,8.58Z", "chevron-left": "M15.41,16.58L10.83,12L15.41,7.41L14,6L8,12L14,18L15.41,16.58Z", "chevron-right": "M8.59,16.58L13.17,12L8.59,7.41L10,6L16,12L10,18L8.59,16.58Z", "clock-outline": "M12,20A8,8 0 0,0 20,12A8,8 0 0,0 12,4A8,8 0 0,0 4,12A8,8 0 0,0 12,20M12,2A10,10 0 0,1 22,12A10,10 0 0,1 12,22C6.47,22 2,17.5 2,12A10,10 0 0,1 12,2M12.5,7V12.25L17,14.92L16.25,16.15L11,13V7H12.5Z", "cog-outline": "M12,8A4,4 0 0,1 16,12A4,4 0 0,1 12,16A4,4 0 0,1 8,12A4,4 0 0,1 12,8M12,10A2,2 0 0,0 10,12A2,2 0 0,0 12,14A2,2 0 0,0 14,12A2,2 0 0,0 12,10M10,22C9.75,22 9.54,21.82 9.5,21.58L9.13,18.93C8.5,18.68 7.96,18.34 7.44,17.94L4.95,18.95C4.73,19.03 4.46,18.95 4.34,18.73L2.34,15.27C2.21,15.05 2.27,14.78 2.46,14.63L4.57,12.97L4.5,12L4.57,11L2.46,9.37C2.27,9.22 2.21,8.95 2.34,8.73L4.34,5.27C4.46,5.05 4.73,4.96 4.95,5.05L7.44,6.05C7.96,5.66 8.5,5.32 9.13,5.07L9.5,2.42C9.54,2.18 9.75,2 10,2H14C14.25,2 14.46,2.18 14.5,2.42L14.87,5.07C15.5,5.32 16.04,5.66 16.56,6.05L19.05,5.05C19.27,4.96 19.54,5.05 19.66,5.27L21.66,8.73C21.79,8.95 21.73,9.22 21.54,9.37L19.43,11L19.5,12L19.43,13L21.54,14.63C21.73,14.78 21.79,15.05 21.66,15.27L19.66,18.73C19.54,18.95 19.27,19.04 19.05,18.95L16.56,17.95C16.04,18.34 15.5,18.68 14.87,18.93L14.5,21.58C14.46,21.82 14.25,22 14,22H10M11.25,4L10.88,6.61C9.68,6.86 8.62,7.5 7.85,8.39L5.44,7.35L4.69,8.65L6.8,10.2C6.4,11.37 6.4,12.64 6.8,13.8L4.68,15.36L5.43,16.66L7.86,15.62C8.63,16.5 9.68,17.14 10.87,17.38L11.24,20H12.76L13.13,17.39C14.32,17.14 15.37,16.5 16.14,15.62L18.57,16.66L19.32,15.36L17.2,13.81C17.6,12.64 17.6,11.37 17.2,10.2L19.31,8.65L18.56,7.35L16.15,8.39C15.38,7.5 14.32,6.86 13.12,6.62L12.75,4H11.25Z", "compass-outline": "M7,17L10.2,10.2L17,7L13.8,13.8L7,17M12,11.1A0.9,0.9 0 0,0 11.1,12A0.9,0.9 0 0,0 12,12.9A0.9,0.9 0 0,0 12.9,12A0.9,0.9 0 0,0 12,11.1M12,2A10,10 0 0,1 22,12A10,10 0 0,1 12,22A10,10 0 0,1 2,12A10,10 0 0,1 12,2M12,4A8,8 0 0,0 4,12A8,8 0 0,0 12,20A8,8 0 0,0 20,12A8,8 0 0,0 12,4Z", "creation-outline": "M9 4L11.5 9.5L17 12L11.5 14.5L9 20L6.5 14.5L1 12L6.5 9.5L9 4M9 8.83L8 11L5.83 12L8 13L9 15.17L10 13L12.17 12L10 11L9 8.83M19 9L17.74 6.26L15 5L17.74 3.75L19 1L20.25 3.75L23 5L20.25 6.26L19 9M19 23L17.74 20.26L15 19L17.74 17.75L19 15L20.25 17.75L23 19L20.25 20.26L19 23Z", "database-outline": "M12 3C7.58 3 4 4.79 4 7V17C4 19.21 7.59 21 12 21S20 19.21 20 17V7C20 4.79 16.42 3 12 3M18 17C18 17.5 15.87 19 12 19S6 17.5 6 17V14.77C7.61 15.55 9.72 16 12 16S16.39 15.55 18 14.77V17M18 12.45C16.7 13.4 14.42 14 12 14C9.58 14 7.3 13.4 6 12.45V9.64C7.47 10.47 9.61 11 12 11C14.39 11 16.53 10.47 18 9.64V12.45M12 9C8.13 9 6 7.5 6 7S8.13 5 12 5C15.87 5 18 6.5 18 7S15.87 9 12 9Z", "docker": "M21.81 10.25C21.75 10.21 21.25 9.82 20.17 9.82C19.89 9.82 19.61 9.85 19.33 9.9C19.12 8.5 17.95 7.79 17.9 7.76L17.61 7.59L17.43 7.86C17.19 8.22 17 8.63 16.92 9.05C16.72 9.85 16.84 10.61 17.25 11.26C16.76 11.54 15.96 11.61 15.79 11.61H2.62C2.28 11.61 2 11.89 2 12.24C2 13.39 2.18 14.54 2.58 15.62C3.03 16.81 3.71 17.69 4.58 18.23C5.56 18.83 7.17 19.17 9 19.17C9.79 19.17 10.61 19.1 11.42 18.95C12.54 18.75 13.62 18.36 14.61 17.79C15.43 17.32 16.16 16.72 16.78 16C17.83 14.83 18.45 13.5 18.9 12.35H19.09C20.23 12.35 20.94 11.89 21.33 11.5C21.59 11.26 21.78 10.97 21.92 10.63L22 10.39L21.81 10.25M3.85 11.24H5.61C5.69 11.24 5.77 11.17 5.77 11.08V9.5C5.77 9.42 5.7 9.34 5.61 9.34H3.85C3.76 9.34 3.69 9.41 3.69 9.5V11.08C3.7 11.17 3.76 11.24 3.85 11.24M6.28 11.24H8.04C8.12 11.24 8.2 11.17 8.2 11.08V9.5C8.2 9.42 8.13 9.34 8.04 9.34H6.28C6.19 9.34 6.12 9.41 6.12 9.5V11.08C6.13 11.17 6.19 11.24 6.28 11.24M8.75 11.24H10.5C10.6 11.24 10.67 11.17 10.67 11.08V9.5C10.67 9.42 10.61 9.34 10.5 9.34H8.75C8.67 9.34 8.6 9.41 8.6 9.5V11.08C8.6 11.17 8.66 11.24 8.75 11.24M11.19 11.24H12.96C13.04 11.24 13.11 11.17 13.11 11.08V9.5C13.11 9.42 13.05 9.34 12.96 9.34H11.19C11.11 9.34 11.04 9.41 11.04 9.5V11.08C11.04 11.17 11.11 11.24 11.19 11.24M6.28 9H8.04C8.12 9 8.2 8.91 8.2 8.82V7.25C8.2 7.16 8.13 7.09 8.04 7.09H6.28C6.19 7.09 6.12 7.15 6.12 7.25V8.82C6.13 8.91 6.19 9 6.28 9M8.75 9H10.5C10.6 9 10.67 8.91 10.67 8.82V7.25C10.67 7.16 10.61 7.09 10.5 7.09H8.75C8.67 7.09 8.6 7.15 8.6 7.25V8.82C8.6 8.91 8.66 9 8.75 9M11.19 9H12.96C13.04 9 13.11 8.91 13.11 8.82V7.25C13.11 7.16 13.04 7.09 12.96 7.09H11.19C11.11 7.09 11.04 7.15 11.04 7.25V8.82C11.04 8.91 11.11 9 11.19 9M11.19 6.72H12.96C13.04 6.72 13.11 6.65 13.11 6.56V5C13.11 4.9 13.04 4.83 12.96 4.83H11.19C11.11 4.83 11.04 4.89 11.04 5V6.56C11.04 6.64 11.11 6.72 11.19 6.72M13.65 11.24H15.41C15.5 11.24 15.57 11.17 15.57 11.08V9.5C15.57 9.42 15.5 9.34 15.41 9.34H13.65C13.57 9.34 13.5 9.41 13.5 9.5V11.08C13.5 11.17 13.57 11.24 13.65 11.24", "dots-horizontal": "M16,12A2,2 0 0,1 18,10A2,2 0 0,1 20,12A2,2 0 0,1 18,14A2,2 0 0,1 16,12M10,12A2,2 0 0,1 12,10A2,2 0 0,1 14,12A2,2 0 0,1 12,14A2,2 0 0,1 10,12M4,12A2,2 0 0,1 6,10A2,2 0 0,1 8,12A2,2 0 0,1 6,14A2,2 0 0,1 4,12Z", "folder-outline": "M20,18H4V8H20M20,6H12L10,4H4C2.89,4 2,4.89 2,6V18A2,2 0 0,0 4,20H20A2,2 0 0,0 22,18V8C22,6.89 21.1,6 20,6Z", "format-list-bulleted": "M7,5H21V7H7V5M7,13V11H21V13H7M4,4.5A1.5,1.5 0 0,1 5.5,6A1.5,1.5 0 0,1 4,7.5A1.5,1.5 0 0,1 2.5,6A1.5,1.5 0 0,1 4,4.5M4,10.5A1.5,1.5 0 0,1 5.5,12A1.5,1.5 0 0,1 4,13.5A1.5,1.5 0 0,1 2.5,12A1.5,1.5 0 0,1 4,10.5M7,19V17H21V19H7M4,16.5A1.5,1.5 0 0,1 5.5,18A1.5,1.5 0 0,1 4,19.5A1.5,1.5 0 0,1 2.5,18A1.5,1.5 0 0,1 4,16.5Z", "gesture-tap": "M10,9A1,1 0 0,1 11,8A1,1 0 0,1 12,9V13.47L13.21,13.6L18.15,15.79C18.68,16.03 19,16.56 19,17.14V21.5C18.97,22.32 18.32,22.97 17.5,23H11C10.62,23 10.26,22.85 10,22.57L5.1,18.37L5.84,17.6C6.03,17.39 6.3,17.28 6.58,17.28H6.8L10,19V9M11,5A4,4 0 0,1 15,9C15,10.5 14.2,11.77 13,12.46V11.24C13.61,10.69 14,9.89 14,9A3,3 0 0,0 11,6A3,3 0 0,0 8,9C8,9.89 8.39,10.69 9,11.24V12.46C7.8,11.77 7,10.5 7,9A4,4 0 0,1 11,5Z", "history": "M13.5,8H12V13L16.28,15.54L17,14.33L13.5,12.25V8M13,3A9,9 0 0,0 4,12H1L4.96,16.03L9,12H6A7,7 0 0,1 13,5A7,7 0 0,1 20,12A7,7 0 0,1 13,19C11.07,19 9.32,18.21 8.06,16.94L6.64,18.36C8.27,20 10.5,21 13,21A9,9 0 0,0 22,12A9,9 0 0,0 13,3", "home-outline": "M12 5.69L17 10.19V18H15V12H9V18H7V10.19L12 5.69M12 3L2 12H5V20H11V14H13V20H19V12H22", "information-outline": "M11,9H13V7H11M12,20C7.59,20 4,16.41 4,12C4,7.59 7.59,4 12,4C16.41,4 20,7.59 20,12C20,16.41 16.41,20 12,20M12,2A10,10 0 0,0 2,12A10,10 0 0,0 12,22A10,10 0 0,0 22,12A10,10 0 0,0 12,2M11,17H13V11H11V17Z", "key-outline": "M21 18H15V15H13.3C12.2 17.4 9.7 19 7 19C3.1 19 0 15.9 0 12S3.1 5 7 5C9.7 5 12.2 6.6 13.3 9H24V15H21V18M17 16H19V13H22V11H11.9L11.7 10.3C11 8.3 9.1 7 7 7C4.2 7 2 9.2 2 12S4.2 17 7 17C9.1 17 11 15.7 11.7 13.7L11.9 13H17V16M7 15C5.3 15 4 13.7 4 12S5.3 9 7 9 10 10.3 10 12 8.7 15 7 15M7 11C6.4 11 6 11.4 6 12S6.4 13 7 13 8 12.6 8 12 7.6 11 7 11Z", "layers-outline": "M12,18.54L19.37,12.8L21,14.07L12,21.07L3,14.07L4.62,12.81L12,18.54M12,16L3,9L12,2L21,9L12,16M12,4.53L6.26,9L12,13.47L17.74,9L12,4.53Z", "lock-outline": "M12,17C10.89,17 10,16.1 10,15C10,13.89 10.89,13 12,13A2,2 0 0,1 14,15A2,2 0 0,1 12,17M18,20V10H6V20H18M18,8A2,2 0 0,1 20,10V20A2,2 0 0,1 18,22H6C4.89,22 4,21.1 4,20V10C4,8.89 4.89,8 6,8H7V6A5,5 0 0,1 12,1A5,5 0 0,1 17,6V8H18M12,3A3,3 0 0,0 9,6V8H15V6A3,3 0 0,0 12,3Z", "piggy-bank-outline": "M15 10C15 9.45 15.45 9 16 9C16.55 9 17 9.45 17 10S16.55 11 16 11 15 10.55 15 10M8 9H13V7H8V9M22 7.5V14.47L19.18 15.41L17.5 21H12V19H10V21H4.5C4.5 21 2 12.54 2 9.5S4.46 4 7.5 4H12.5C13.41 2.79 14.86 2 16.5 2C17.33 2 18 2.67 18 3.5C18 3.71 17.96 3.9 17.88 4.08C17.74 4.42 17.62 4.81 17.56 5.23L19.83 7.5H22M20 9.5H19L15.5 6C15.5 5.35 15.59 4.71 15.76 4.09C14.79 4.34 14 5.06 13.67 6H7.5C5.57 6 4 7.57 4 9.5C4 11.38 5.22 16.15 6 19H8V17H14V19H16L17.56 13.85L20 13.03V9.5Z", "puzzle-outline": "M22,13.5C22,15.26 20.7,16.72 19,16.96V20A2,2 0 0,1 17,22H13.2V21.7A2.7,2.7 0 0,0 10.5,19C9,19 7.8,20.21 7.8,21.7V22H4A2,2 0 0,1 2,20V16.2H2.3C3.79,16.2 5,15 5,13.5C5,12 3.79,10.8 2.3,10.8H2V7A2,2 0 0,1 4,5H7.04C7.28,3.3 8.74,2 10.5,2C12.26,2 13.72,3.3 13.96,5H17A2,2 0 0,1 19,7V10.04C20.7,10.28 22,11.74 22,13.5M17,15H18.5A1.5,1.5 0 0,0 20,13.5A1.5,1.5 0 0,0 18.5,12H17V7H12V5.5A1.5,1.5 0 0,0 10.5,4A1.5,1.5 0 0,0 9,5.5V7H4V9.12C5.76,9.8 7,11.5 7,13.5C7,15.5 5.75,17.2 4,17.88V20H6.12C6.8,18.25 8.5,17 10.5,17C12.5,17 14.2,18.25 14.88,20H17V15Z", "repeat": "M17,17H7V14L3,18L7,22V19H19V13H17M7,7H17V10L21,6L17,2V5H5V11H7V7Z", "rocket-launch-outline": "M13.13 22.19L11.5 18.36C13.07 17.78 14.54 17 15.9 16.09L13.13 22.19M5.64 12.5L1.81 10.87L7.91 8.1C7 9.46 6.22 10.93 5.64 12.5M19.22 4C19.5 4 19.75 4 19.96 4.05C20.13 5.44 19.94 8.3 16.66 11.58C14.96 13.29 12.93 14.6 10.65 15.47L8.5 13.37C9.42 11.06 10.73 9.03 12.42 7.34C15.18 4.58 17.64 4 19.22 4M19.22 2C17.24 2 14.24 2.69 11 5.93C8.81 8.12 7.5 10.53 6.65 12.64C6.37 13.39 6.56 14.21 7.11 14.77L9.24 16.89C9.62 17.27 10.13 17.5 10.66 17.5C10.89 17.5 11.13 17.44 11.36 17.35C13.5 16.53 15.88 15.19 18.07 13C23.73 7.34 21.61 2.39 21.61 2.39S20.7 2 19.22 2M14.54 9.46C13.76 8.68 13.76 7.41 14.54 6.63S16.59 5.85 17.37 6.63C18.14 7.41 18.15 8.68 17.37 9.46C16.59 10.24 15.32 10.24 14.54 9.46M8.88 16.53L7.47 15.12L8.88 16.53M6.24 22L9.88 18.36C9.54 18.27 9.21 18.12 8.91 17.91L4.83 22H6.24M2 22H3.41L8.18 17.24L6.76 15.83L2 20.59V22M2 19.17L6.09 15.09C5.88 14.79 5.73 14.47 5.64 14.12L2 17.76V19.17Z", "server-network": "M13,19H14A1,1 0 0,1 15,20H22V22H15A1,1 0 0,1 14,23H10A1,1 0 0,1 9,22H2V20H9A1,1 0 0,1 10,19H11V17H4A1,1 0 0,1 3,16V12A1,1 0 0,1 4,11H20A1,1 0 0,1 21,12V16A1,1 0 0,1 20,17H13V19M4,3H20A1,1 0 0,1 21,4V8A1,1 0 0,1 20,9H4A1,1 0 0,1 3,8V4A1,1 0 0,1 4,3M9,7H10V5H9V7M9,15H10V13H9V15M5,5V7H7V5H5M5,13V15H7V13H5Z", "server-outline": "M2 4.6V9.4C2 10.3 2.5 11 3.2 11H20.9C21.5 11 22.1 10.3 22.1 9.4V4.6C22 3.7 21.5 3 20.8 3H3.2C2.5 3 2 3.7 2 4.6M10 8V6H9V8H10M5 8H7V6H5V8M20 9H4V5H20V9M2 14.6V19.4C2 20.3 2.5 21 3.2 21H20.9C21.5 21 22.1 20.3 22.1 19.4V14.6C22.1 13.7 21.6 13 20.9 13H3.2C2.5 13 2 13.7 2 14.6M10 18V16H9V18H10M5 18H7V16H5V18M20 19H4V15H20V19Z", "shape-outline": "M11,13.5V21.5H3V13.5H11M9,15.5H5V19.5H9V15.5M12,2L17.5,11H6.5L12,2M12,5.86L10.08,9H13.92L12,5.86M17.5,13C20,13 22,15 22,17.5C22,20 20,22 17.5,22C15,22 13,20 13,17.5C13,15 15,13 17.5,13M17.5,15A2.5,2.5 0 0,0 15,17.5A2.5,2.5 0 0,0 17.5,20A2.5,2.5 0 0,0 20,17.5A2.5,2.5 0 0,0 17.5,15Z", "shield-check-outline": "M21,11C21,16.55 17.16,21.74 12,23C6.84,21.74 3,16.55 3,11V5L12,1L21,5V11M12,21C15.75,20 19,15.54 19,11.22V6.3L12,3.18L5,6.3V11.22C5,15.54 8.25,20 12,21M10,17L6,13L7.41,11.59L10,14.17L16.59,7.58L18,9", "source-branch": "M13,14C9.64,14 8.54,15.35 8.18,16.24C9.25,16.7 10,17.76 10,19A3,3 0 0,1 7,22A3,3 0 0,1 4,19C4,17.69 4.83,16.58 6,16.17V7.83C4.83,7.42 4,6.31 4,5A3,3 0 0,1 7,2A3,3 0 0,1 10,5C10,6.31 9.17,7.42 8,7.83V13.12C8.88,12.47 10.16,12 12,12C14.67,12 15.56,10.66 15.85,9.77C14.77,9.32 14,8.25 14,7A3,3 0 0,1 17,4A3,3 0 0,1 20,7C20,8.34 19.12,9.5 17.91,9.86C17.65,11.29 16.68,14 13,14M7,18A1,1 0 0,0 6,19A1,1 0 0,0 7,20A1,1 0 0,0 8,19A1,1 0 0,0 7,18M7,4A1,1 0 0,0 6,5A1,1 0 0,0 7,6A1,1 0 0,0 8,5A1,1 0 0,0 7,4M17,6A1,1 0 0,0 16,7A1,1 0 0,0 17,8A1,1 0 0,0 18,7A1,1 0 0,0 17,6Z", "sync": "M12,18A6,6 0 0,1 6,12C6,11 6.25,10.03 6.7,9.2L5.24,7.74C4.46,8.97 4,10.43 4,12A8,8 0 0,0 12,20V23L16,19L12,15M12,4V1L8,5L12,9V6A6,6 0 0,1 18,12C18,13 17.75,13.97 17.3,14.8L18.76,16.26C19.54,15.03 20,13.57 20,12A8,8 0 0,0 12,4Z", "target": "M11,2V4.07C7.38,4.53 4.53,7.38 4.07,11H2V13H4.07C4.53,16.62 7.38,19.47 11,19.93V22H13V19.93C16.62,19.47 19.47,16.62 19.93,13H22V11H19.93C19.47,7.38 16.62,4.53 13,4.07V2M11,6.08V8H13V6.09C15.5,6.5 17.5,8.5 17.92,11H16V13H17.91C17.5,15.5 15.5,17.5 13,17.92V16H11V17.91C8.5,17.5 6.5,15.5 6.08,13H8V11H6.09C6.5,8.5 8.5,6.5 11,6.08M12,11A1,1 0 0,0 11,12A1,1 0 0,0 12,13A1,1 0 0,0 13,12A1,1 0 0,0 12,11Z", "transit-connection-variant": "M18,11H14.82C14.4,9.84 13.3,9 12,9C10.7,9 9.6,9.84 9.18,11H6C5.67,11 4,10.9 4,9V8C4,6.17 5.54,6 6,6H16.18C16.6,7.16 17.7,8 19,8A3,3 0 0,0 22,5A3,3 0 0,0 19,2C17.7,2 16.6,2.84 16.18,4H6C4.39,4 2,5.06 2,8V9C2,11.94 4.39,13 6,13H9.18C9.6,14.16 10.7,15 12,15C13.3,15 14.4,14.16 14.82,13H18C18.33,13 20,13.1 20,15V16C20,17.83 18.46,18 18,18H7.82C7.4,16.84 6.3,16 5,16A3,3 0 0,0 2,19A3,3 0 0,0 5,22C6.3,22 7.4,21.16 7.82,20H18C19.61,20 22,18.93 22,16V15C22,12.07 19.61,11 18,11M19,4A1,1 0 0,1 20,5A1,1 0 0,1 19,6A1,1 0 0,1 18,5A1,1 0 0,1 19,4M5,20A1,1 0 0,1 4,19A1,1 0 0,1 5,18A1,1 0 0,1 6,19A1,1 0 0,1 5,20Z", "tray-arrow-up": "M2 12H4V17H20V12H22V17C22 18.11 21.11 19 20 19H4C2.9 19 2 18.11 2 17V12M12 2L6.46 7.46L7.88 8.88L11 5.75V15H13V5.75L16.13 8.88L17.55 7.45L12 2Z", "trending-up": "M16,6L18.29,8.29L13.41,13.17L9.41,9.17L2,16.59L3.41,18L9.41,12L13.41,16L19.71,9.71L22,12V6H16Z", "weather-night": "M17.75,4.09L15.22,6.03L16.13,9.09L13.5,7.28L10.87,9.09L11.78,6.03L9.25,4.09L12.44,4L13.5,1L14.56,4L17.75,4.09M21.25,11L19.61,12.25L20.2,14.23L18.5,13.06L16.8,14.23L17.39,12.25L15.75,11L17.81,10.95L18.5,9L19.19,10.95L21.25,11M18.97,15.95C19.8,15.87 20.69,17.05 20.16,17.8C19.84,18.25 19.5,18.67 19.08,19.07C15.17,23 8.84,23 4.94,19.07C1.03,15.17 1.03,8.83 4.94,4.93C5.34,4.53 5.76,4.17 6.21,3.85C6.96,3.32 8.14,4.21 8.06,5.04C7.79,7.9 8.75,10.87 10.95,13.06C13.14,15.26 16.1,16.22 18.97,15.95M17.33,17.97C14.5,17.81 11.7,16.64 9.53,14.5C7.36,12.31 6.2,9.5 6.04,6.68C3.23,9.82 3.34,14.64 6.35,17.66C9.37,20.67 14.19,20.78 17.33,17.97Z", "white-balance-sunny": "M3.55 19.09L4.96 20.5L6.76 18.71L5.34 17.29M12 6C8.69 6 6 8.69 6 12S8.69 18 12 18 18 15.31 18 12C18 8.68 15.31 6 12 6M20 13H23V11H20M17.24 18.71L19.04 20.5L20.45 19.09L18.66 17.29M20.45 5L19.04 3.6L17.24 5.39L18.66 6.81M13 1H11V4H13M6.76 5.39L4.96 3.6L3.55 5L5.34 6.81L6.76 5.39M1 13H4V11H1M13 20H11V23H13"};
 const icon = (name) => `<svg class="icon" viewBox="0 0 24 24" aria-hidden="true"><path d="${ICONS[name] ?? ICONS["dots-horizontal"]}"/></svg>`;
 for (const el of document.querySelectorAll("i[data-i]")) el.outerHTML = icon(el.dataset.i);
 
